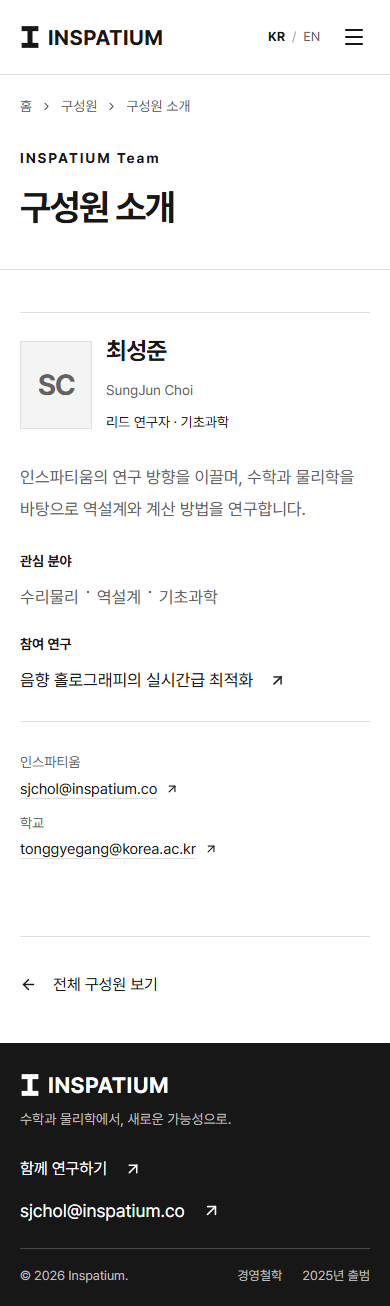
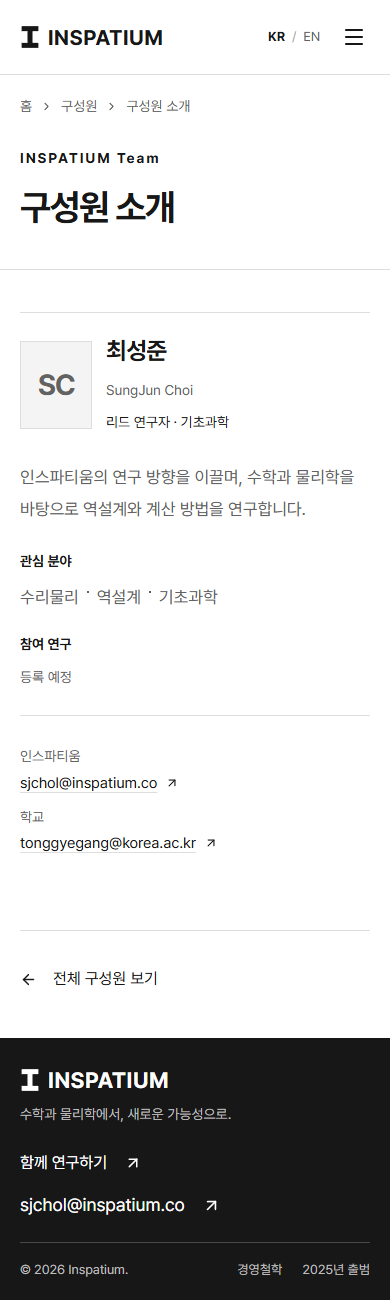
Temporarily hide acoustic optimization research page

diff --git a/tests/site.spec.js b/tests/site.spec.js
@@ -1,5 +1,5 @@
 import { test, expect } from '@playwright/test';
-import { mkdir } from 'node:fs/promises';
+import { mkdir, readFile } from 'node:fs/promises';
 
 const memberEmails = {
   'sungjun-choi': ['sjchol@inspatium.co', 'tonggyegang@korea.ac.kr'],
@@ -7,7 +7,7 @@ const memberEmails = {
   'yoonchae-kim': ['yonchaekim@inspatium.co', 'yonchaekim@ajou.ac.kr'],
   'yoonseo-gu': ['yunseo7560@inspatium.co', 'gys0821@korea.ac.kr'],
 };
-const pages = ['', '/philosophy', '/greeting', '/about', '/history', '/research', '/research/acoustic-optimization', '/research/few-shot-inverse-design', '/research/embedded-physical-ai', '/research/holography-hardware', '/publications', '/publications/hat-2026', '/team', ...Object.keys(memberEmails).map(id => `/team/${id}`), '/join', '/news', '/contact'];
+const pages = ['', '/philosophy', '/greeting', '/about', '/history', '/research', '/research/few-shot-inverse-design', '/research/embedded-physical-ai', '/research/holography-hardware', '/publications', '/publications/hat-2026', '/team', ...Object.keys(memberEmails).map(id => `/team/${id}`), '/join', '/news', '/contact'];
 
 for (const lang of ['ko', 'en']) {
   test(`${lang}: all pages load without runtime errors or horizontal overflow`, async ({ page }) => {
@@ -32,7 +32,7 @@ for (const lang of ['ko', 'en']) {
 
 test('locale home and detail pages survive direct navigation and refresh', async ({ page }) => {
   for (const lang of ['ko', 'en']) {
-    for (const route of ['', '/team/sungjun-choi', '/research/acoustic-optimization']) {
+    for (const route of ['', '/team/sungjun-choi', '/research/few-shot-inverse-design']) {
       const path = `/${lang}${route}?source=refresh`;
       const response = await page.goto(path);
       expect(response.status(), path).toBe(200);
@@ -47,14 +47,75 @@ test('locale home and detail pages survive direct navigation and refresh', async
 });
 
 test('language switching preserves the research detail route and member anchor', async ({ page }) => {
-  await page.goto('/ko/research/acoustic-optimization');
+  await page.goto('/ko/research/few-shot-inverse-design');
   await page.getByRole('link', { name: 'Switch to English' }).click();
-  await expect(page).toHaveURL(/\/en\/research\/acoustic-optimization$/);
+  await expect(page).toHaveURL(/\/en\/research\/few-shot-inverse-design$/);
   await expect(page.locator('html')).toHaveAttribute('lang', 'en');
   await page.goto('/en/team#yoonchae-kim');
   await page.getByRole('link', { name: '한국어로 전환' }).click();
   await expect(page).toHaveURL(/\/ko\/team#yoonchae-kim$/);
   await expect(page.locator('#yoonchae-kim')).toBeInViewport();
+});
+
+test('research visibility controls links and direct routes while preserving other pages', async ({ page }) => {
+  const content = JSON.parse(await readFile(new URL('../src/content.json', import.meta.url), 'utf8'));
+  const projectId = 'acoustic-optimization';
+  const project = content.projects.find(item => item.id === projectId);
+  const hidden = project.visibility === 'hidden';
+  const publicIds = content.projects.filter(item => item.visibility !== 'hidden').map(item => item.id);
+  for (const lang of ['ko', 'en']) {
+    const projectField = key => lang === 'en' ? project[`${key}_en`] ?? project[key] : project[key];
+    await page.goto(`/${lang}/research`);
+    await expect(page.locator('.research-list-item')).toHaveCount(publicIds.length);
+    if (hidden) await expect(page.locator(`main a[href*="/research/${projectId}"]`)).toHaveCount(0);
+    for (const id of publicIds) {
+      await expect(page.locator(`main a[href="/${lang}/research/${id}"]`).first()).toBeVisible();
+    }
+
+    for (const route of ['history', 'news', 'publications', 'publications/hat-2026', 'team', ...Object.keys(memberEmails).map(id => `team/${id}`)]) {
+      await page.goto(`/${lang}/${route}`);
+      await expect(page.locator('h1')).toBeVisible();
+      await expect(page.locator('main')).not.toContainText('404');
+      if (hidden) {
+        await expect(page.locator(`main a[href*="/research/${projectId}"]`)).toHaveCount(0);
+        await expect(page.locator('main')).not.toContainText('7.86');
+      } else if (route === 'history' || route === 'publications/hat-2026' || (route.startsWith('team/') && project.people.includes(route.slice('team/'.length)))) {
+        await expect(page.locator(`main a[href="/${lang}/research/${projectId}"]`).first()).toBeVisible();
+      }
+      if (route === 'publications/hat-2026') {
+        await expect(page.locator('.publication-detail-title')).toContainText(lang === 'ko' ? '홀로그래피 음향 집게' : 'holographic acoustic tweezers');
+      }
+    }
+
+    const assertDetailVisibility = async () => {
+      if (hidden) {
+        await expect(page.locator('h1')).toHaveText(lang === 'ko' ? '페이지를 찾을 수 없습니다.' : 'Page not found.');
+        await expect(page.locator('main')).not.toContainText(projectField('title'));
+        await expect(page.locator('main')).not.toContainText('7.86');
+        await expect(page).not.toHaveTitle(`${projectField('title')} | INSPATIUM`);
+        await expect(page.locator('meta[property="og:title"]')).not.toHaveAttribute('content', `${projectField('title')} | INSPATIUM`);
+        for (const selector of ['meta[name="description"]', 'meta[property="og:description"]']) {
+          await expect(page.locator(selector)).not.toHaveAttribute('content', projectField('summary'));
+        }
+      } else {
+        await expect(page.locator('h1')).toHaveText(projectField('title'));
+        await expect(page.locator('main')).toContainText(projectField('outcome'));
+        await expect(page).toHaveTitle(`${projectField('title')} | INSPATIUM`);
+        await expect(page.locator('meta[property="og:title"]')).toHaveAttribute('content', `${projectField('title')} | INSPATIUM`);
+        for (const selector of ['meta[name="description"]', 'meta[property="og:description"]']) {
+          await expect(page.locator(selector)).toHaveAttribute('content', projectField('summary'));
+        }
+      }
+    };
+    const projectPath = `/${lang}/research/${projectId}`;
+    for (const suffix of ['', '?source=hidden-check', '/index.html?source=hidden-check']) {
+      await page.goto(`${projectPath}${suffix}`);
+      await expect(page).toHaveURL(`${projectPath}${suffix.replace('/index.html', '')}`);
+      await assertDetailVisibility();
+      await page.reload();
+      await assertDetailVisibility();
+    }
+  }
 });
 
 test('desktop about dropdown, mobile menu and news filtering are operable', async ({ page }) => {
@@ -82,8 +143,8 @@ test('email actions are addressed correctly and legacy and missing routes resolv
   await expect(mail).toHaveAttribute('href', /mailto:sjchol@inspatium\.co\?subject=/);
   await page.goto('/ko/contact');
   await expect(page.locator('main a[href^="mailto:"]').first()).toHaveAttribute('href', /^mailto:sjchol@inspatium\.co/);
-  await page.goto('/en/research/acoustic-optimization/index.html');
-  await expect(page).toHaveURL(/\/en\/research\/acoustic-optimization$/);
+  await page.goto('/en/research/few-shot-inverse-design/index.html');
+  await expect(page).toHaveURL(/\/en\/research\/few-shot-inverse-design$/);
   await page.goto('/ko/team/sungjun-choi');
   await expect(page).toHaveURL(/\/ko\/team\/sungjun-choi$/);
   await expect(page.locator('#sungjun-choi')).toBeVisible();
@@ -118,7 +179,7 @@ test('home stays compact with readable typography and links to detailed pages', 
     }
     await page.locator(`main a[href="/${lang}/research"]`).first().click();
     await expect(page).toHaveURL(new RegExp(`/${lang}/research$`));
-    await expect(page.locator(`main a[href="/${lang}/research/acoustic-optimization"]`).first()).toBeVisible();
+    await expect(page.locator(`main a[href="/${lang}/research/few-shot-inverse-design"]`).first()).toBeVisible();
     await page.goto(`/${lang}`);
     await page.locator(`main a[href="/${lang}/about"]`).first().click();
     await expect(page).toHaveURL(new RegExp(`/${lang}/about$`));
